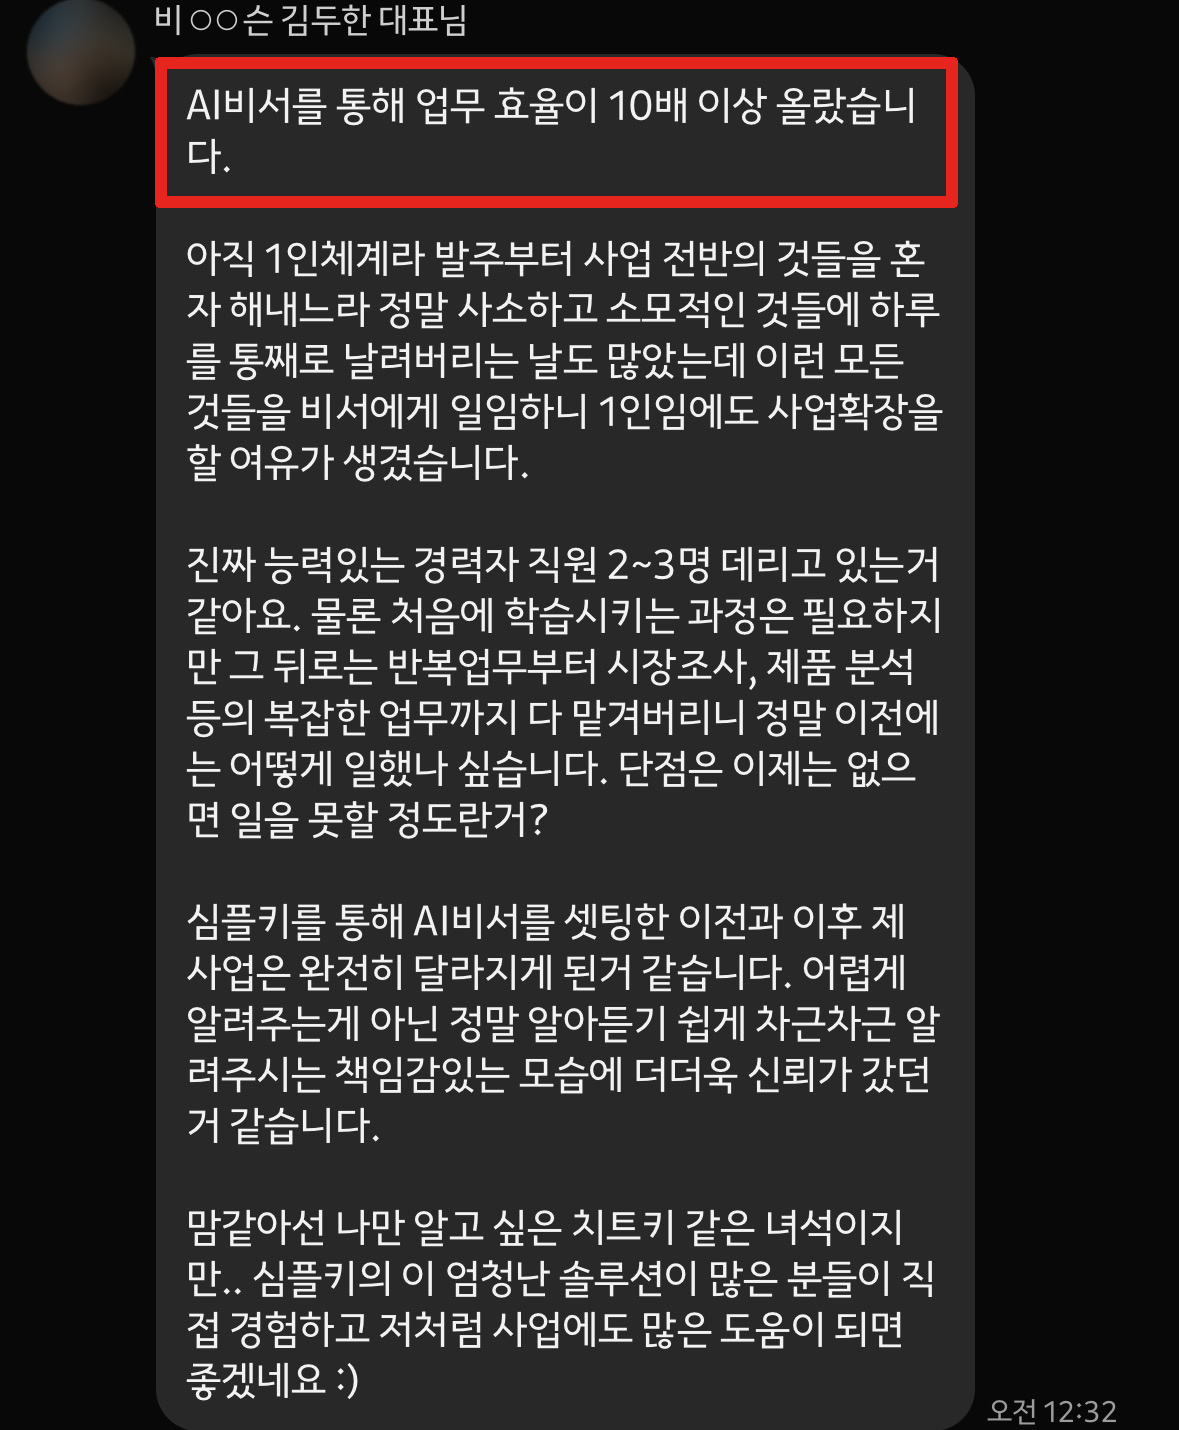
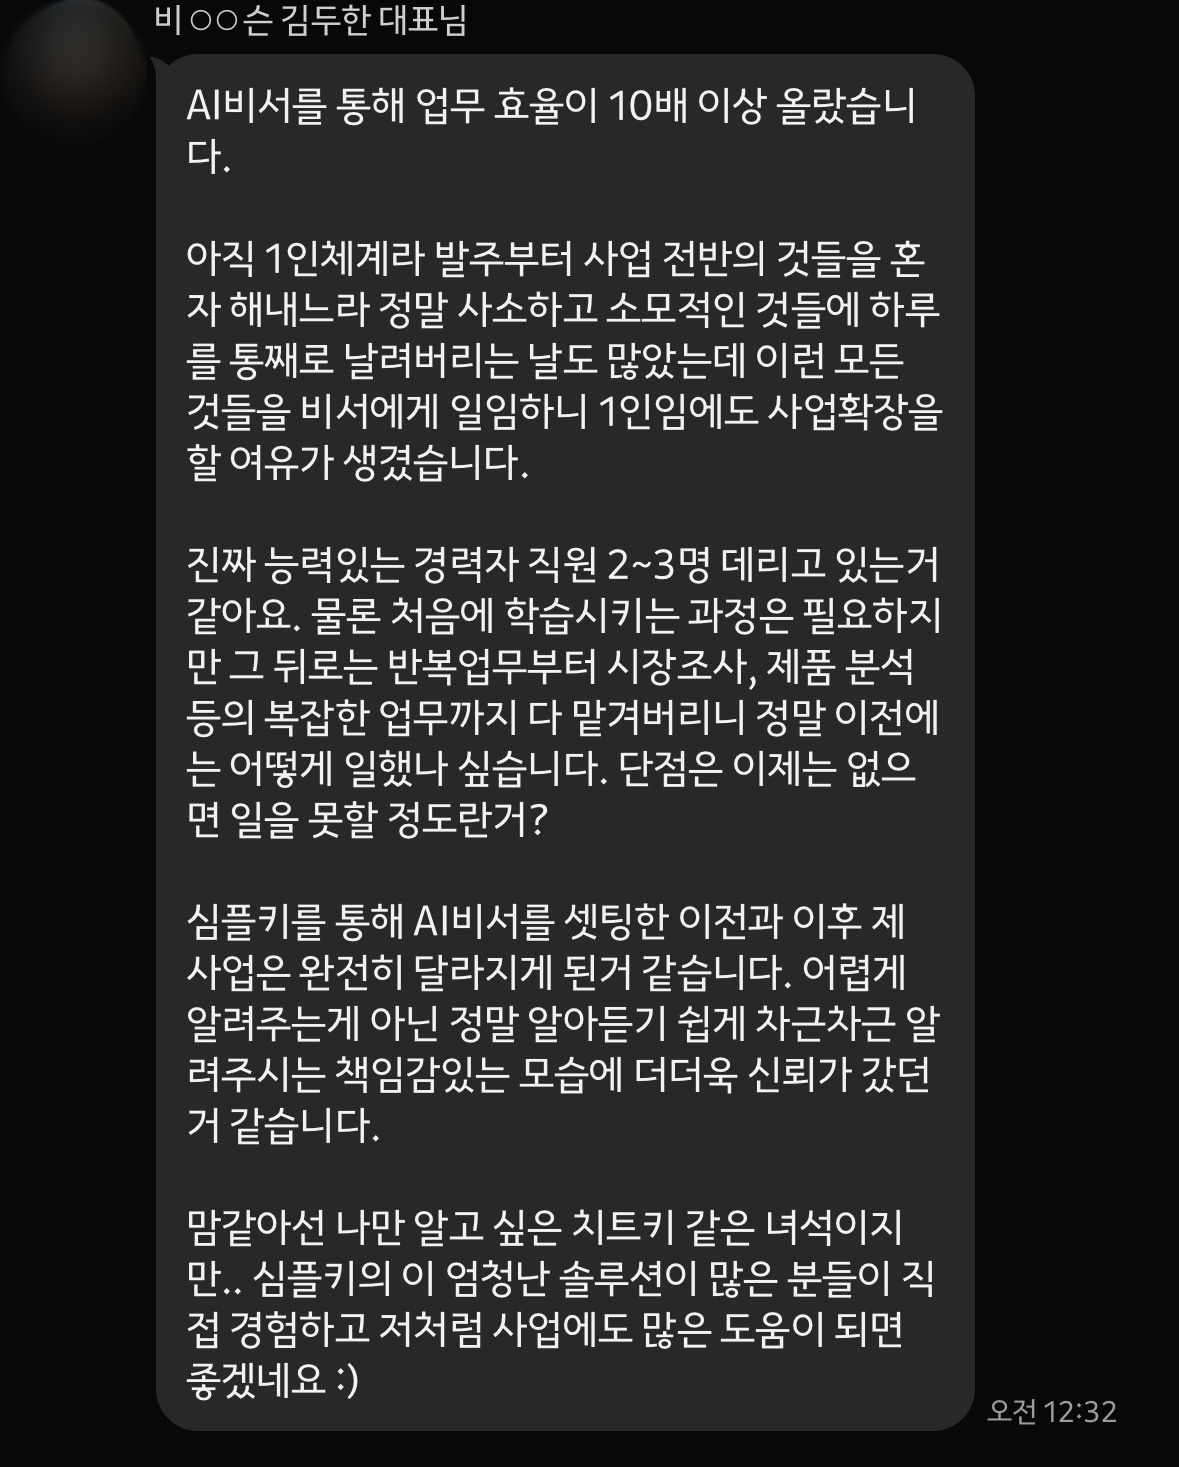
fix(review): 원본 팝업은 박스 없이 원본 그대로, 프로필 사진 블러, 에미뜨 호칭 정정 (지영님 17229)
Claude-Session: https://claude.ai/code/session_01KsCuiJUiSyN7Ekduia8BC8

diff --git a/index.html b/index.html
@@ -654,7 +654,7 @@ dialog.krv{--brown:#231815;--white:#fff;--ink:#231815}
 <span class="ttl"><b>4시간</b> 만에 해결</span><span class="sub"><strong>굿필마케팅 이혜림</strong> 대표님</span></button></li>
 <li><button class="card" type="button" data-open="d-emmitt" aria-label="피부과 후기 원본 보기">
 <span class="shot"><img src="assets/kakao-review/card-emmitt.png" alt="" loading="lazy"><span class="quote" style="top:42.9%">단순히 만들어주는 느낌이 아니라 저희 병원 상황에 맞춰 같이 정리해주시는 부분이 특히 좋았고,</span></span><span class="tags"><span class="chip">피부과</span><span class="svc sys">업무 시스템</span></span>
-<span class="ttl">만들어주는 게 아니라 <b>같이 정리</b></span><span class="sub"><strong>에미뜨의원 이명주</strong> 대표님</span></button></li>
+<span class="ttl">만들어주는 게 아니라 <b>같이 정리</b></span><span class="sub"><strong>에미뜨의원 이명주</strong>님</span></button></li>
 <li><button class="card" type="button" data-open="d-bleezin" aria-label="커머스 후기 원본 보기">
 <span class="shot"><img src="assets/kakao-review/card-bleezin.png" alt="" loading="lazy"><span class="quote" style="top:50.0%">근데 지금은 진짜 딴 회사가 됐습니다.</span></span><span class="tags"><span class="chip">커머스</span><span class="svc sys">업무 시스템</span></span>
 <span class="ttl">진짜 딴 회사가 됐습니다</span><span class="sub"><strong>블리진 이형석</strong> 대표님</span></button></li>
